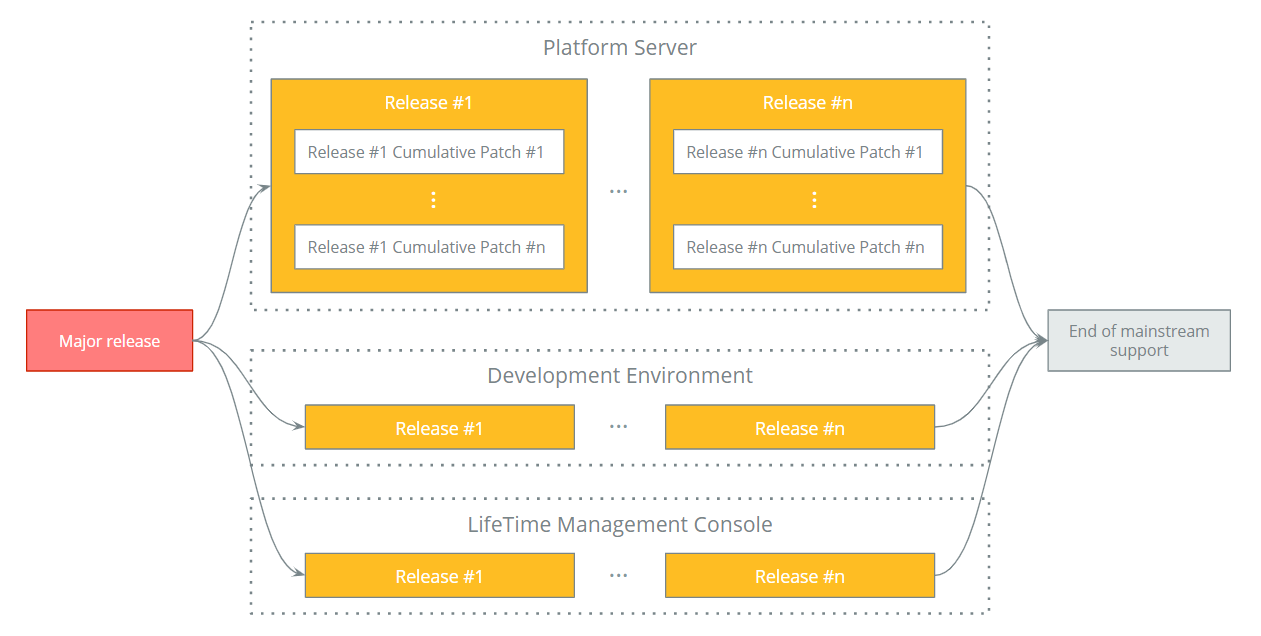
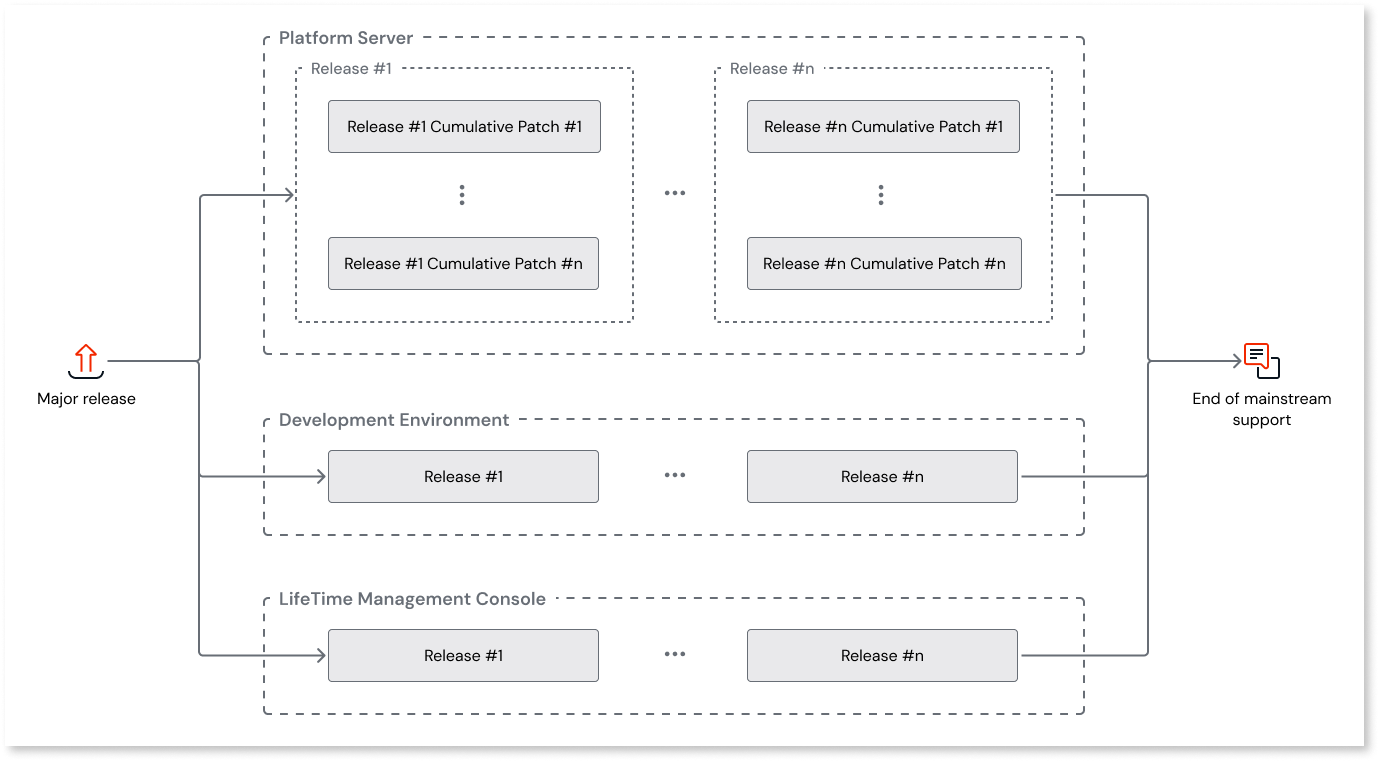
RDTKF-19154 Update images (#712)

diff --git a/src/troubleshooting/application-lifecycle/factory-confi.md b/src/troubleshooting/application-lifecycle/factory-confi.md
@@ -1,0 +1,223 @@
+---
+summary: 
+tags: 
+guid: 20bc8aa2-417c-43e5-bd61-464c615886ab
+locale: en-us
+app_type: mobile apps, reactive web apps
+platform-version: o11
+figma: 
+---
+
+# Factory Configuration
+
+The [Factory Configuration plugin](/path/to/file.md) allows you to change the configuration of the components of your Service Center Factory. Factory Configuration has no dependencies and no consumers and enables:
+
+- Shared Configurations in a centralized way
+
+- Well-defined collection of Platform Configurations
+
+- Viewing existing modules in your Service Center and their current configurations
+
+To set up Factory Configuration, install it from [Forge](/path/to/file.md) and then opening the module in the browser. The tested version used in this document is 11.1.4 (OutSystems 11).
+
+## Features
+
+The Factory Configuration includes the following tabs:
+
+- **eSpaces:**. Lists all the modules and their existing configurations.
+
+- **Shared Configurations**: Enables the creation of specific configurations that are shared between chosen modules.
+
+- **Platform Configurations**: Lists several internal configurations that affect the whole platform.
+
+## Apply shared configurations
+
+OutSystems creates web apps with a `web.config` file, an application configuration part of Microsoft’s http\://ASP.NET. The file is written in XML, stays in the app's root directory, and controls the app's behavior.
+
+In **the OutSystems Platform**, whenever a deployment is triggered, the `web.config` is always rebuilt from scratch. As a result, you have to manually change it every time a new version of your app is deployed if changes need to be applied.
+
+Factory Configuration allows the creation of shared configurations per module applied to the `web.config` file. For example, if you want custom error handlers for HTTP error codes, you can create a configuration that varies for each module. Those configurations persist even after you deploy your applications.
+
+## Technical details
+
+Factory Configuration uses an XML file with XSL styling language. It uses XSL Transformations (XSLT) to transform the default `web config` file. 
+
+For additional resources regarding XSLT, refer to this [XSLT Introduction](/path/to/file.md).
+
+To test the modifications of an XSLT file on a `web.config` file, use this[ Online XSLT Test Tool](/path/to/file.md). 
+
+### Main Structure of an XSLT
+
+Here is an example of the main structure of an XSLT file:
+
+```
+<?xml version="1.0" encoding="UTF-8"?>
+<xsl:stylesheet version="1.0" xmlns:xsl="http://www.w3.org/1999/XSL/Transform">
+  <xsl:output method="xml" indent="yes" encoding="UTF-8"/> 
+
+  <xsl:template match="@*|node()">
+      <xsl:copy>
+          <xsl:apply-templates select="@*|node()"/>
+      </xsl:copy>
+  </xsl:template>
+      
+  <xsl:template match="/configuration/system.web/httpRuntime">
+      <xsl:copy>
+          <xsl:apply-templates select="@*|node()"/>
+          <xsl:attribute name="executionTimeout">180</xsl:attribute>
+          <xsl:attribute name="maxRequestLength">65536</xsl:attribute>
+      </xsl:copy>
+  </xsl:template>
+</xsl:stylesheet>
+```
+
+## Create a new Shared Configuration
+
+Factory Configuration allows you to create a shared configuration by either creating a new configuration from scratch or using one of the pre-made samples available.
+
+To create a shared configuration from scratch: 
+
+1. Navigate to the **Shared Configurations** tab.
+
+2. Click **Create New Shared Configuration**. 
+
+3. Click **Create** when you are ready to create a new configuration.![](/path/to/image.png)
+
+![](/path/to/image.png)
+
+### Pre-made samples
+
+Pre-made samples are found in the **Pre-made Samples** field. Use the following set of pre-made samples:
+
+- **Custom HttpRuntime Parameters**: The HttpRuntime parameter allows you to handle the parameters affecting the app's runtime behavior. It refers to the node in the configuration file indicated by the `httpRuntime` element in the configuration hierarchy. Use it to change the `executionTimeout` and the `maxRequestLength`, time, and size of the request.
+
+- **Default Proxy**: Use it to configure an HTTP proxy server.
+
+- **Custom Handler**: Use it to create custom handlers in the `web.config` file. For example, you can customize the error handling.
+
+- **Integrated Authentication**: Use it to configure Integrated Authentication for Java using NTLM HTTP filters.
+
+- **OSTraces**: Changes the Log level of the OutSystems Platform, file location, and other related settings. These changes increase the log level number by editing the following snippet created automatically by Factory Configuration when you press the **Fill** button. For more information about OSTraces, refer to [Change OutSystems platform logging levels - OSTrace](/path/to/file.md)
+
+```
+(...)
+<xsl:template name="loglevel">
+      <add name="LogLevel" value="4" />
+(...)
+```
+
+### Associate shared configurations to eSpaces
+
+After creating a shared configuration, associate them with the eSpaces by following these steps:
+
+![](/path/to/image.png)
+
+1. Navigate to the eSpaces tab. 
+
+2. Click on the eSpace name. 
+
+![](/path/to/image.png)
+
+3. Select the shared configuration to be associated.
+
+![](/path/to/image.png)
+
+**Note**: You can also link multiple shared configurations to a single eSpace.
+
+<div class="info" markdown="1">
+
+Configuration changes done in Factory Configuration 11 might not be applied immediately, and the Service Center might not show any warnings about these pending changes. You will need to republish the affected module after associating the shared configuration.Learn more about how to act when [applying configurations](/path/to/file.md).
+
+</div>
+
+## Platform Configurations
+
+The **Platform Configurations** tab lists several internal configurations that affect the whole platform. To view the description of each configuration and the effects of enabling or modifying it, hover the mouse over each question mark. 
+
+![](/path/to/image.png)
+
+Here's a list of relevant platform configurations and their parameters used inside the OutSystems database:
+
+- **Fine Grained DB Connection Permissions**
+
+  - **Description:** Controls if the database connection permissions for a user (assigned via Service Center) allow them to use a database connection even if they don't have access over the overall environment
+
+  - **Database parameter**: `[UseFinerGrainPermissionsInDBConnection]`
+
+- **Password fields autocomplete value for Consoles**
+
+  - **Description**: Controls the autocomplete attribute value of password inputs used in OutSystems consoles. The default value is off.
+
+  - **Database parameter:** `[Consoles.PasswordAutocompleteValue]`
+
+- **Brute Force Protection Window (minutes)**
+
+  - **Description**: Timeframe for counting the number of failed login attempts. This configuration applies to both Brute Force Protection (Username and IP Address) if they are enabled.
+
+  - **Database parameter**: `[InvalidLoginCheckWindowInMinutes]`
+
+- **Brute Force Protection by Username** 
+
+  - **Description**: Blocks any login attempt for a username ****from a specific IP Address after exceeding the specified number of failed login attempts within the defined Brute Force Protection Window.
+
+  - **Database parameter**: `[EnableBruteForceProtection]`
+
+- **Brute Force Protection by IP Address**
+
+  - **Description**: Blocks any login attempt from a specific IP Address after exceeding the specified number of failed login attempts within the defined Brute Force Protection Window.
+
+  - **Database parameter**: `[EnableBruteForceProtectionPerIP]`
+
+  - **Other parameters for Brute Force Protection:**
+
+    - MaxUsernameAttemptsFirstBackoff
+
+    - UsernameAttemptsFirstBackoffDelayInSeconds
+
+    - MaxUsernameAttemptsSecondBackoff
+
+    - UsernameAttemptsSecondBackoffDelayInSeconds
+
+    - MaxIPAttemptsFirstBackoff
+
+    - MaxIPAttemptsSecondBackoff
+
+    - IPAttemptsFirstBackoffDelayInSeconds
+
+    - IPAttemptsSecondBackoffDelayInSeconds
+
+- **Remember Login (days)**
+
+  - **Description**: Timeout used by the persistent Login mechanism. This value is the number of days the OutSystems Platform remembers a user in a specific browser
+
+  - **Database parameter**: `[OutSystems.HubEdition.RememberLoginTimeoutInDays]`
+
+- **Slow Query Threshold (milliseconds)**
+
+  - **Description**: The number of milliseconds a query may run before it is logged as a slow query in the General Log of Service Center.
+
+  - **Database parameter**: `[OutSystems.HubEdition.Log.SlowQueryInMs]`
+
+- **One Connection per Debugger Request**
+
+  - **Description**: Enables short debugger requests at the environment level. This may be useful in network configurations where long-lived requests can be broken by firewalls or proxies. This may improve your experience with the built-in debugger.
+
+  - **Database parameter**: `[OutSystems.HubEdition.UseShortRequestsOnDebugger]`
+
+- **Set Expect 100 Continue**
+
+  - **Description**: Sets the Expect 100 Continue property of the ServicePointManager class. This may improve the performance of web services, specifically when the web service endpoint requires authentication. For more details on this behavior, refer to this [Microsoft article](/path/to/file.md).
+
+  - **Database parameter:** `[Runtime.Expect100Continue]`
+
+- **Use Platform Date Format in Excel**
+
+  - **Description**: Allows exporting dates and times formatted according to the platform settings (defined in Service Center).
+
+  - **Database parameter**: `[ExportToExcel.UsePlatformDateFormat]`
+
+- **Write Null Date as Blank Cell in Excel**
+
+  - **Description**: Leaves Excel cells blank whenever the value to be written is a null date or DateTime.
+
+  - **Database parameter**:  `[ExportToExcel.WriteNullDateAsBlankCell]`

diff --git a/src/release-notes/product-lifecycle/product-lifecycle.md b/src/release-notes/product-lifecycle/product-lifecycle.md
@@ -4,7 +4,8 @@ tags:
 locale: en-us
 guid: d18db4ef-572c-4961-a7aa-097259242aca
 app_type: traditional web apps, mobile apps, reactive web apps
-platform-version: o11
+platform-version: o11, odc
+figma: https://www.figma.com/design/UXA74OsZxSIzLLsjhvNMjC/Release-Notes?node-id=1146-17&node-type=canvas&t=Z7o6IyzcmwbSVvBD-0
 ---
 
 # OutSystems product lifecycle and support calendar
@@ -55,14 +56,11 @@ The following table illustrates the usage of version numbers in 3 different type
 | A Release containing new functionality, and possibly breaking changes. The second number increases and the third number is reset to 0. | from 11.**0**.nto 11.**1**.0 |
 | A Cumulative patch containing only defect fixes and minor improvements, but with no breaking changes. The third number (patch) increases. | from 11.1.0to 11.1.**1**  |
 
-
 *n* = an integer number
-
 
 ## Early access programs
 
 Major launches typically include an Early Access Program (EAP). The program duration will depend on the scope of the launch and the specific program objectives. Customers are invited to participate in an EAP, depending on pre-defined eligibility criteria. During the EAP, OutSystems has dedicated resources (Support, Engineering, Training) to enable and support the customer. OutSystems may provide additional infrastructure resources while the program is in place (for example, to run in parallel with the existing infrastructure).
-
 
 ## Installing new releases
 
@@ -72,7 +70,6 @@ Upgrading to a new major release is optional (but recommended) for self-managed 
 
 Personal environments and enterprise trials will be upgraded to the latest major release as soon as possible.
 
-
 ### Upgrades to a new release or cumulative patch
 
 Upgrading to a new release or cumulative patch are optional (but recommended) for self-managed customers. OutSystems Cloud installations are handled by our operations with no downtime. Update instructions are available in the [installation checklist](https://www.outsystems.com/Downloads/search/). OutSystems can provide [services to assist with the upgrade](https://www.outsystems.com/evaluation-guide/professional-services).
@@ -80,7 +77,6 @@ Upgrading to a new release or cumulative patch are optional (but recommended) fo
 For Development Environment upgrades, developers are free to update to the latest release as soon as it becomes available.
 
 The OutSystems free offers will be updated to the latest release as soon as possible.
-
 
 ## End of mainstream support
 
@@ -96,13 +92,11 @@ For discontinued versions, it might be necessary to have some downtime; therefor
 
 The below calendar shows the past, current, and planned dates for OutSystems product mainstream support.
 
-![Timeline showing the support calendar for OutSystems product versions, indicating live, discontinued, and end of extended support phases.](images/product-lifecycle-cal-diag.png "OutSystems Support Calendar")
-
+![Timeline showing the support calendar for OutSystems product versions, indicating live, discontinued, and end of extended support phases.](images/support-calendar-diag.png "OutSystems Support Calendar")
 
 ## Documentation and training updates
 
 The following table shows the different types of documentation and the moments when they're updated:
-
 
 | | Major release | Release | Cumulative patch |
 |---|---|---|---|
